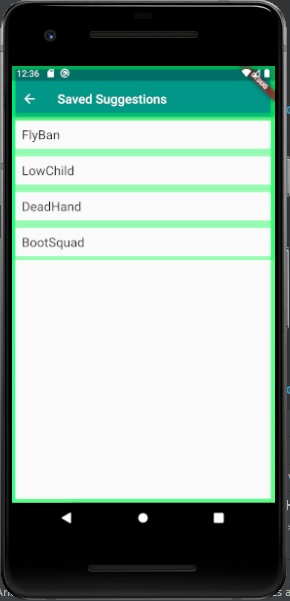
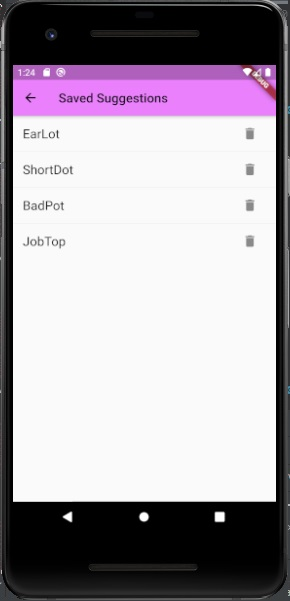
delete from fav list option added.

Changed region(s): [[0.0, 0.0, 0.9931, 1.0], [0.931, 0.9584, 0.9931, 1.0]]

diff --git a/lib/main.dart b/lib/main.dart
@@ -13,7 +13,7 @@ class MyApp extends StatelessWidget {
       title: 'Startup Name Generator',
       theme: ThemeData(
         // Add the 3 lines from here...
-        primaryColor: Colors.teal,
+        primaryColor: Colors.purpleAccent[100],
       ),
       home: RandomWords(),
     );
@@ -54,6 +54,16 @@ class _RandomWordsState extends State<RandomWords> {
                 title: Text(
                   pair.asPascalCase,
                   style: _biggerFont,
+                ),
+                trailing: IconButton(
+                  icon: const Icon(Icons.delete),
+                  onPressed: () {
+                    setState(() {
+                      _saved.remove(pair);
+                      Navigator.of(context).pop();
+                      _pushSaved();
+                    });
+                  },
                 ),
               );
             },
@@ -99,7 +109,7 @@ class _RandomWordsState extends State<RandomWords> {
       trailing: Icon(
         // NEW from here...
         alreadySaved ? Icons.favorite : Icons.favorite_border,
-        color: alreadySaved ? Colors.purpleAccent : null,
+        color: alreadySaved ? Colors.purpleAccent[100] : null,
       ),
       onTap: () {
         // NEW lines from here...

diff --git a/README.md b/README.md
@@ -13,5 +13,9 @@ A few resources to get you started if this is your first Flutter project:
 
 ## Screenshots
 
-<img  src="/screenshots/main-screen.jpg" alt="Main Screen" />
+< div align="center">
+<img src="/screenshots/main-screen.jpg" alt="Main Screen" />
 <img src="/screenshots/favorite-screen.jpg"  alt="Favorite Screen" />
+<img src="/screenshots/main-screen-afterDelete.jpg" alt="Main Screen" />
+<img src="/screenshots/favorite-screen-afterDelete.jpg"  alt="Favorite Screen" />
+</div>
